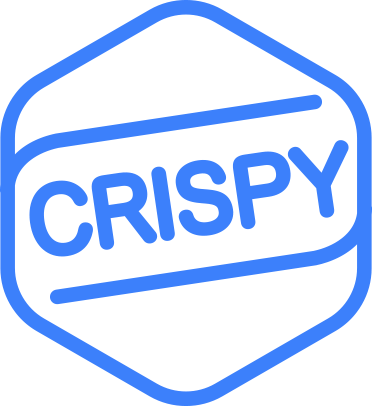
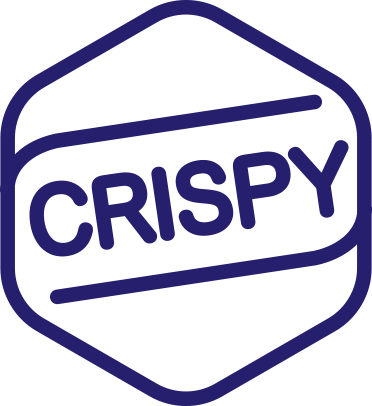
add categories change blue color add pagination

Changed region(s): [[0.0, 0.0, 1.0, 1.0]]

diff --git a/index.html b/index.html
@@ -34,15 +34,18 @@
    <a href="" class="brand"><img class="logo" src="img/crispyB.png" alt="Crispy">Crispy</a>
    <ul>
     <li><a href="">HOME</a></li>
+    <!-- <li><a href="">CATEGORIES <i class="fas fa-angle-down"></i></a></li> -->
+
    </ul>
    <div>
     <a href="https://github.com/ParmentierChristophe" class="reseau">
       <i class="fab fa-github"></i>
-
     </a>
     <a href="https://twitter.com/theCrispydesign" class="reseau">
-
-        <i class="fab fa-twitter fa-sm"></i>
+        <i class="fab fa-twitter "></i>
+    </a>
+    <a href="https://www.linkedin.com/in/christophe-parmentier/" class="reseau">
+      <i class="fab fa-linkedin-in"></i>
     </a>
    </div>
   </div>
@@ -62,6 +65,7 @@
      <a class="link-auth-posts-card" href="http://christophe-parmentier.fr/">Christophe Parmentier</a> le 20 fevrier 2018
     </p>
    </div>
+   <a href="" class="cat-tag-laravel">#Laravel</a>
    <a class="link-card-post2" href="post.html">
   </a>
   </div>
@@ -78,6 +82,7 @@
      <a class="link-auth-posts-card" href="http://christophe-parmentier.fr/">Christophe Parmentier</a> le 20 fevrier 2018
     </p>
    </div>
+   <a href="" class="cat-tag-vue">#VueJs</a>
    <a class="link-card-post2" href="post.html">
   </a>
   </div>
@@ -94,8 +99,41 @@
      <a class="link-auth-posts-card" href="http://christophe-parmentier.fr/">Christophe Parmentier</a> le 20 fevrier 2018
     </p>
    </div>
+   <a href="" class="cat-tag-react">#ReactJs</a>
    <a class="link-card-post2" href="post.html">
-</a>
+  </a>
+  </div>
+
+  <!-- CARD 4 -->
+  <div class="card-posts">
+   <h2>I'm Title - 4</h2>
+   <p>Lorem ipsum dolor sit amet, consectetur adipisicing elit, sed do eiusmod tempor incididunt ut labore et dolore magna aliqua. Ut enim ...</p>
+
+   <div class="card-footer">
+    <img class="img-card-footer" src="img/pp.jpg" alt="" />
+    <p class="name-auth-card-posts">
+     <a class="link-auth-posts-card" href="http://christophe-parmentier.fr/">Christophe Parmentier</a> le 20 fevrier 2018
+    </p>
+   </div>
+   <a href="" class="cat-tag-laravel">#Laravel</a>
+   <a class="link-card-post2" href="post.html">
+  </a>
+  </div>
+
+  <!-- pagination OLDER NEWEST -->
+  <div class="container-pagination">
+
+   <div class="pagination">
+    <a class="older-pagination Link-animatedHover" href="">Older</a>
+    <a class="newest-pagination Link-animatedHover" href="">Newest</a>
+   </div>
+
+  </div>
+  <!-- FOOTER -->
+  <div class="center">
+   <a href="">
+    <img class="logo-footer" src="img/crispyB.png" alt="">
+   </a>
   </div>
  </div>
 

diff --git a/css/main.css b/css/main.css
@@ -312,6 +312,7 @@ ul {
 li {
  text-decoration: none;
  list-style: none;
+ margin-right: 1rem;
 }
 
 
@@ -353,6 +354,38 @@ li {
  bottom: 0;
 }
 
+.cat-tag-laravel
+{
+  position: relative;
+  z-index: 1000;
+  background-color: #FCC7C4;
+  padding: 0.3rem 0.8rem;
+  border-radius: 40px;
+  color: #F85142;
+  transition: 0.5s;
+}
+
+.cat-tag-react
+{
+  position: relative;
+  z-index: 1000;
+  background-color: #C7E9F4;
+  padding: 0.3rem 0.8rem;
+  border-radius: 40px;
+  color: #1AA5D1;
+  transition: 0.5s;
+}
+
+.cat-tag-vue
+{
+  position: relative;
+  z-index: 1000;
+  background-color: #D3F2E6;
+  padding: 0.3rem 0.8rem;
+  border-radius: 40px;
+  color: #47B784;
+  transition: 0.5s;
+}
 
 /* FOOTER CARD POSTS */
 
@@ -384,6 +417,46 @@ li {
  color: #000000;
 }
 
+
+/* PAGINATION */
+
+.container-pagination
+{
+  width: 36rem;
+  margin: 0 auto;
+}
+.pagination
+{
+
+  width: 100%;
+
+  display: flex;
+  justify-content: space-between;
+
+}
+.Link-animatedHover
+{
+  color:#251F6E !important;
+  font-size: 1.2em;
+}
+
+.Link-animatedHover:hover{
+  opacity: 1;
+}
+
+.Link-animatedHover:hover:after {
+    width: 100%;
+
+}
+
+.Link-animatedHover:after {
+    content: "";
+    display: block;
+    width: 0;
+    height: 2px;
+    background: #251F6E;
+    transition: all .5s;
+}
 
 /* POST */
 
@@ -425,7 +498,7 @@ li {
 }
 
 .link-post {
- color: #3C80FB;
+ color: #251F6E;
  font-weight: bold;
  border-bottom: 3px solid #CADCFC;
  transition: 0.2s;
@@ -446,7 +519,7 @@ img {
   display: block;
   height: 1px;
   border: 0;
-  border-top: 2px solid #3C80FB;
+  border-top: 2px solid #CADCFC;
 
  }
 
@@ -459,19 +532,20 @@ form
  border-radius: 2px;
  padding: 0.7rem;
  width: 250px;
+ margin-right: 0.3rem;
 }
 
 .btn-submit
 {
-  border: 1px solid #3C80FB;
+  border: 1px solid #251F6E;
   border-radius: 2px;
   padding: 0.7rem;
-  color: #3C80FB;
+  color: #251F6E;
   font-weight: bold;
   transition: 0.5s;
 }
 .btn-submit:hover{
-  background-color: #3C80FB;
+  background-color: #251F6E;
   color: #fff;
 }
 
@@ -502,7 +576,7 @@ form
   align-items: center;
   margin-right: -1rem;
   font-weight: bold;
-  color: #3C80FB;
+  color: #251F6E;
 }
 
 .next a svg
@@ -522,7 +596,7 @@ margin-left: 0.5rem;
   align-items: center;
   margin-left: -1rem;
   font-weight: bold;
-  color: #3C80FB;
+  color: #251F6E;
 }
 
 .previous a svg

diff --git a/post.html b/post.html
@@ -36,12 +36,15 @@
     <li><a href="index.html">HOME</a></li>
    </ul>
    <div>
-     <a href="https://github.com/ParmentierChristophe" class="reseau">
+    <a href="https://github.com/ParmentierChristophe" class="reseau">
        <i class="fab fa-github"></i>
 
      </a>
     <a href="https://twitter.com/theCrispydesign" class="reseau">
         <i class="fab fa-twitter fa-sm"></i>
+    </a>
+    <a href="" class="reseau">
+    <i class="fab fa-linkedin-in"></i>
     </a>
    </div>
   </div>
@@ -77,6 +80,8 @@
 
    <div class="post-footer">
     <hr class="hr-post">
+    <a href="" class="cat-tag-react">#ReactJs</a>
+
     <p>Enjoyed this post? Receive the next one in your inbox!
     </p>
 
@@ -111,7 +116,11 @@
     </div>
    </div>
 
-   <div class="center"><a href=""><img class="logo-footer" src="img/crispyB.png" alt=""></a></div>
+   <div class="center">
+    <a href="">
+     <img class="logo-footer" src="img/crispyB.png" alt="">
+    </a>
+   </div>
   </div>
  </div>
 
